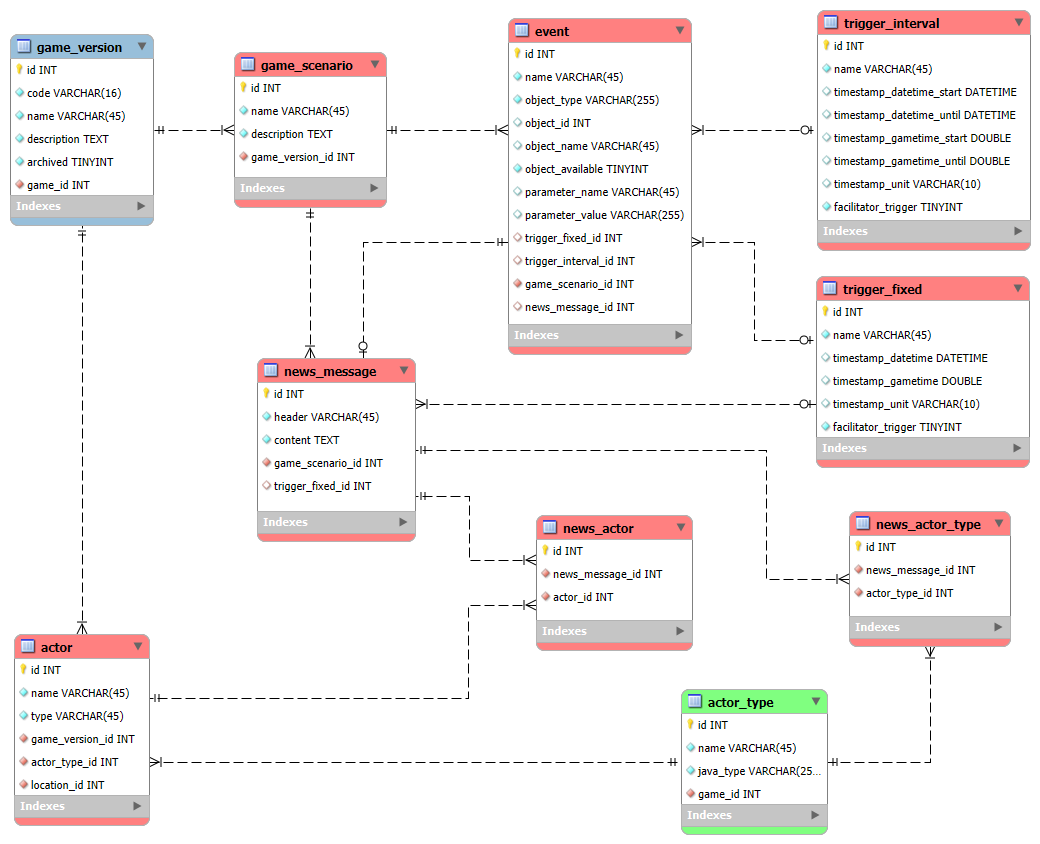
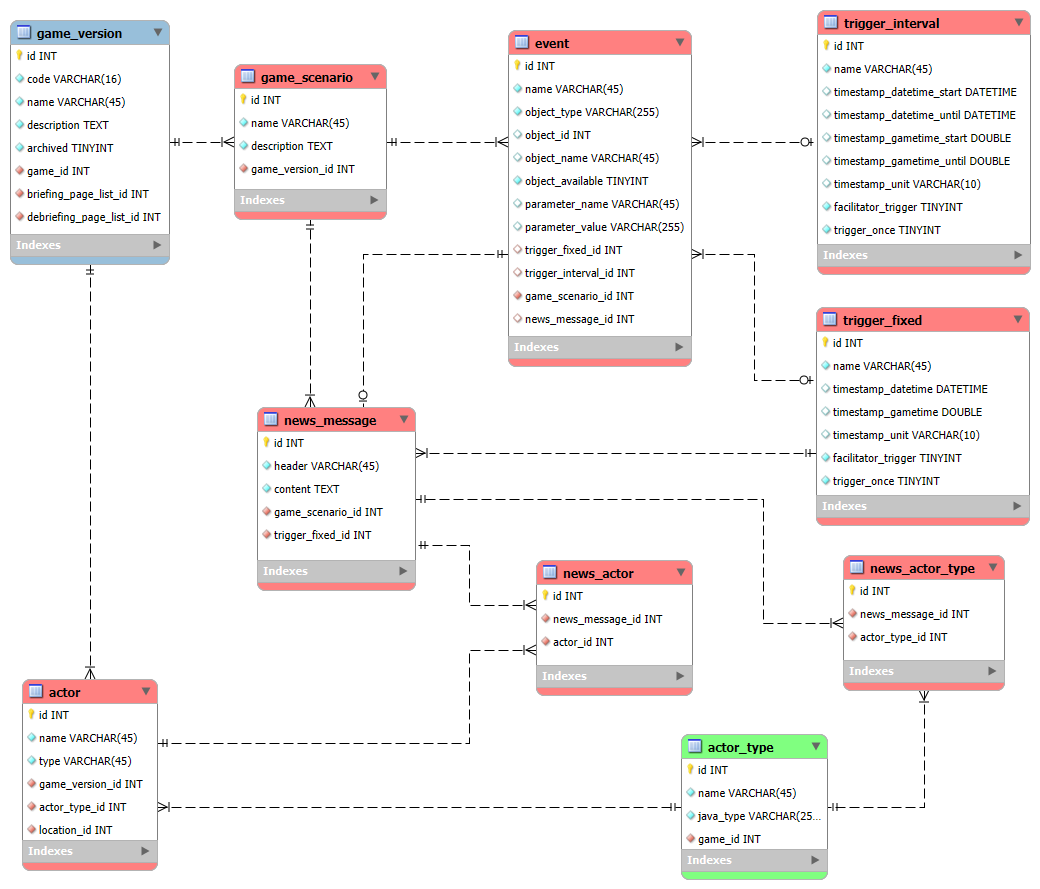
Issue #33. Allow limits to be set on a trigger

diff --git a/doc/4-architecture/database-design.md b/doc/4-architecture/database-design.md
@@ -24,6 +24,7 @@ __Changelog:__
  - 2025-08-30 - Enable blocking of player for a game session [Issue #29](https://github.com/averbraeck/gscg-design/issues/29).
  - 2025-08-30 - Table handler_valid_actor also on actor_type level [Issue #19](https://github.com/averbraeck/gscg-design/issues/19).
  - 2025-08-30 - Add database tables for briefing and debriefing [Issue #30](https://github.com/averbraeck/gscg-design/issues/30).
+ - 2025-08-30 - Allow limits to be set on a trigger [Issue #33](https://github.com/averbraeck/gscg-design/issues/33).
  
 
 ## 4.1.1. High-level database design
@@ -415,7 +416,7 @@ The non-functional requirements have no effect on the database.
 - FC5.16 The event of adding an intervention to the the game session must be sent to the gamedata platform
   <br>No consequences for database.
 - FO5.17 The facilitator should be able to trigger an existing manual intervention during gameplay
-  <br>The `trigger_interval` and `trigger_fixed` tables have a boolean field called `facilitator_trigger`. If true, the facilitator can trigger the event. Maybe we have to restrict the number of times that an event can be triggered. See NOTE. We might also record the fact that an event has been triggered. See NOTE.
+  <br>The `trigger_interval` and `trigger_fixed` tables have a boolean field called `facilitator_trigger`. If true, the facilitator can trigger the event. We must record the fact that an event has been triggered. See NOTE.
 - FC5.18 The event of triggering an existing intervention during the the game play must be sent to the gamedata platform
   <br>No consequences for database.
 - FO5.19 The session facilitation should present an overview of the players allocated to a session
@@ -446,9 +447,6 @@ The non-functional requirements have no effect on the database.
 
 > [!NOTE]
 > **FO5.15**. When a facilitator adds an `event` record, this means that it is added for **all** game sessions. So, a specific event table should be added that only applies to the game session. This asks for a new table in the database.
-
-> [!NOTE]
-> **FO5.17**: Add a maximum number of times an event has been triggered to the database.
 
 > [!NOTE]
 > **FO5.17**: Record that an event has been triggered to the database. This probably asks for a new table that is linked to the `game_session`.
